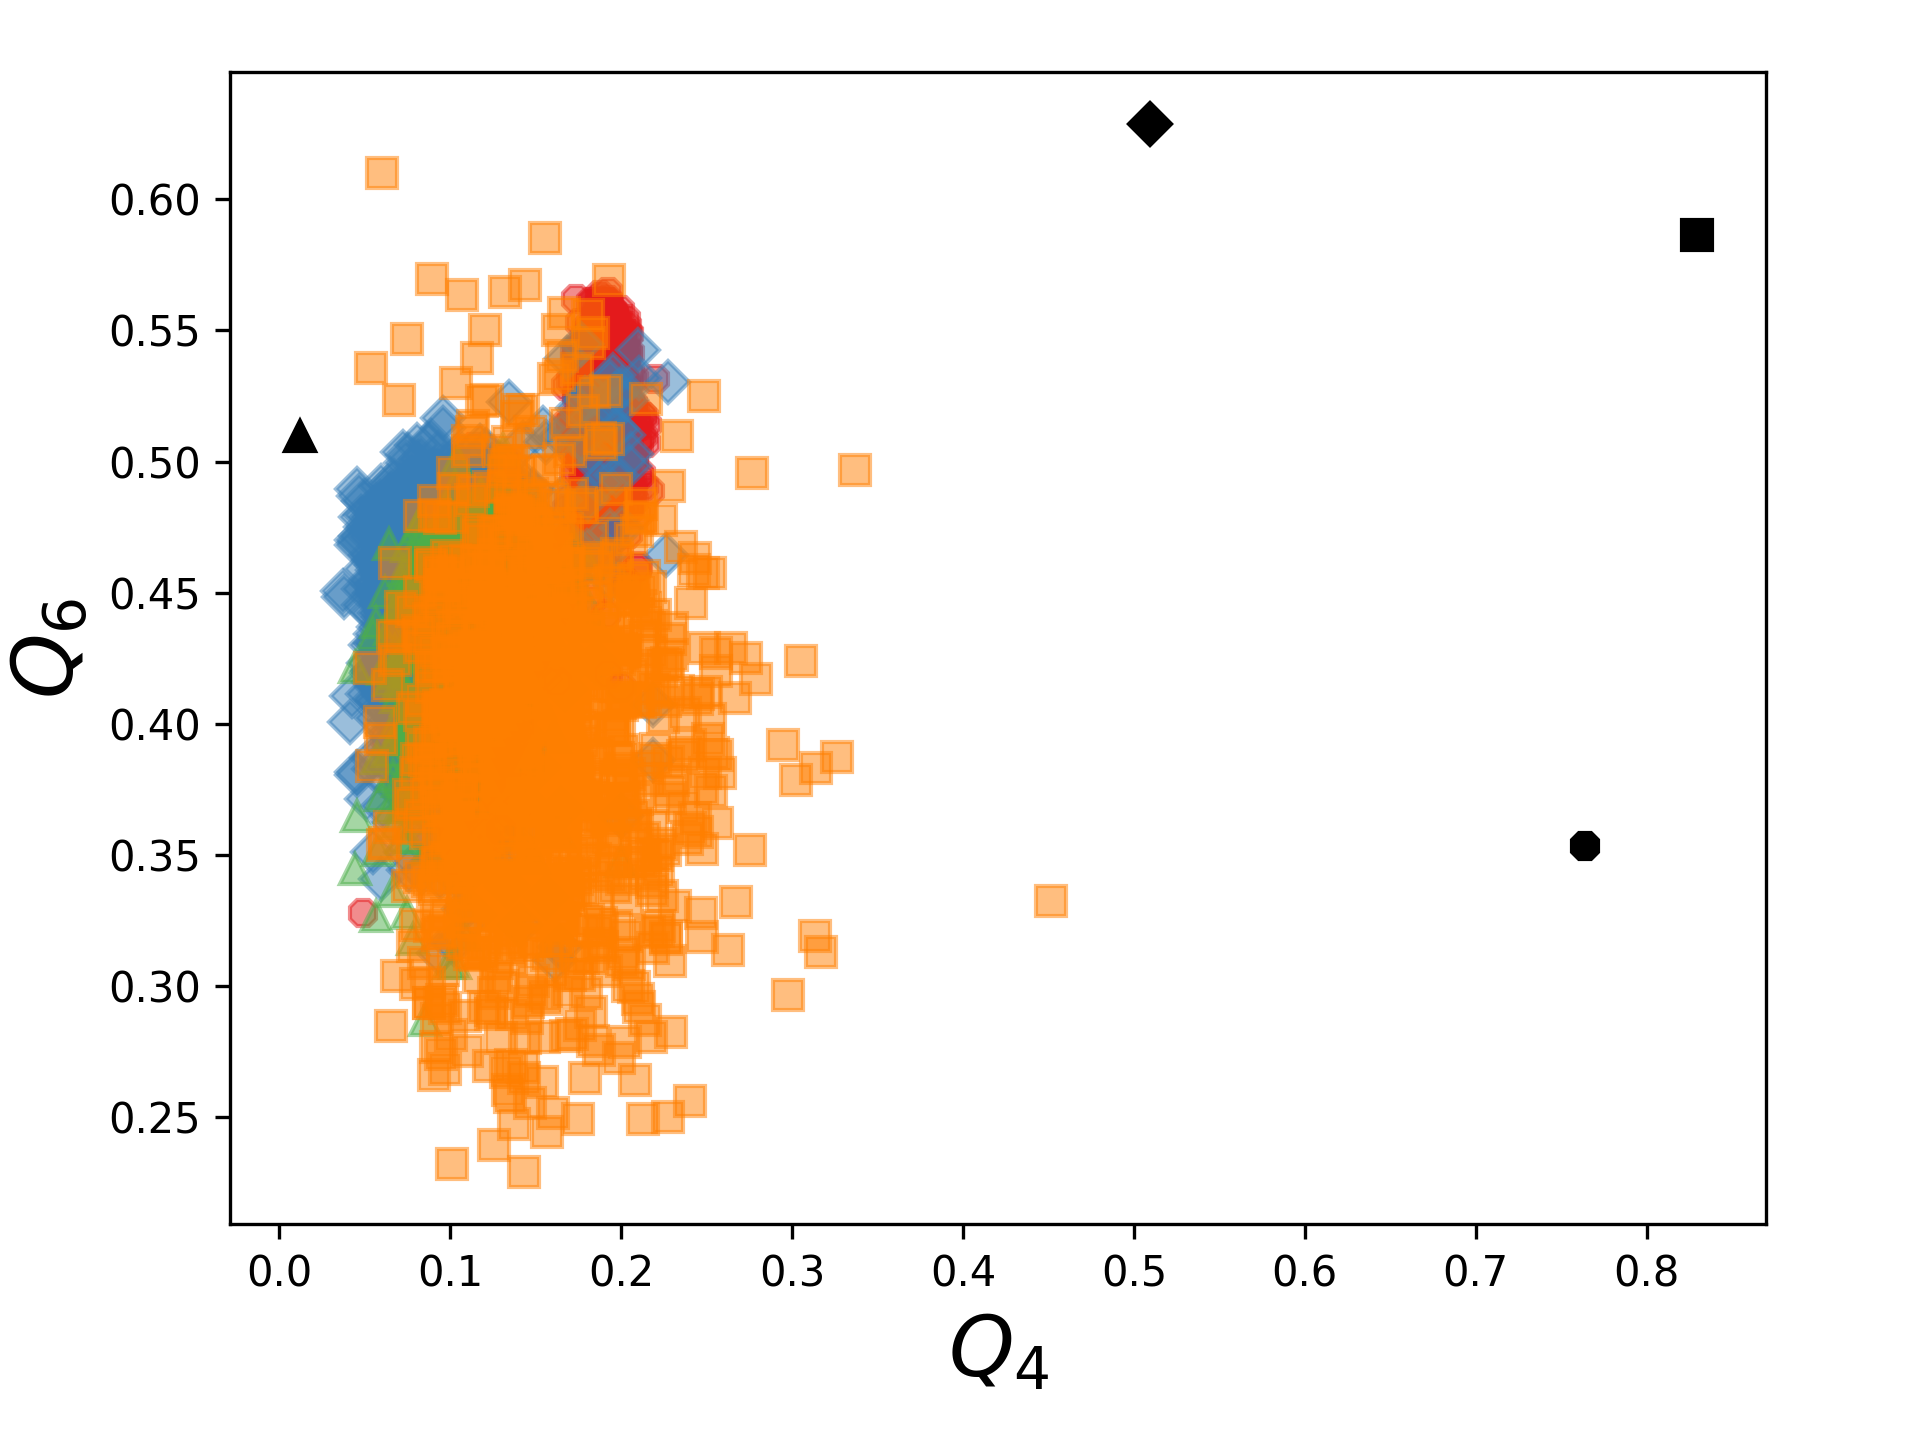
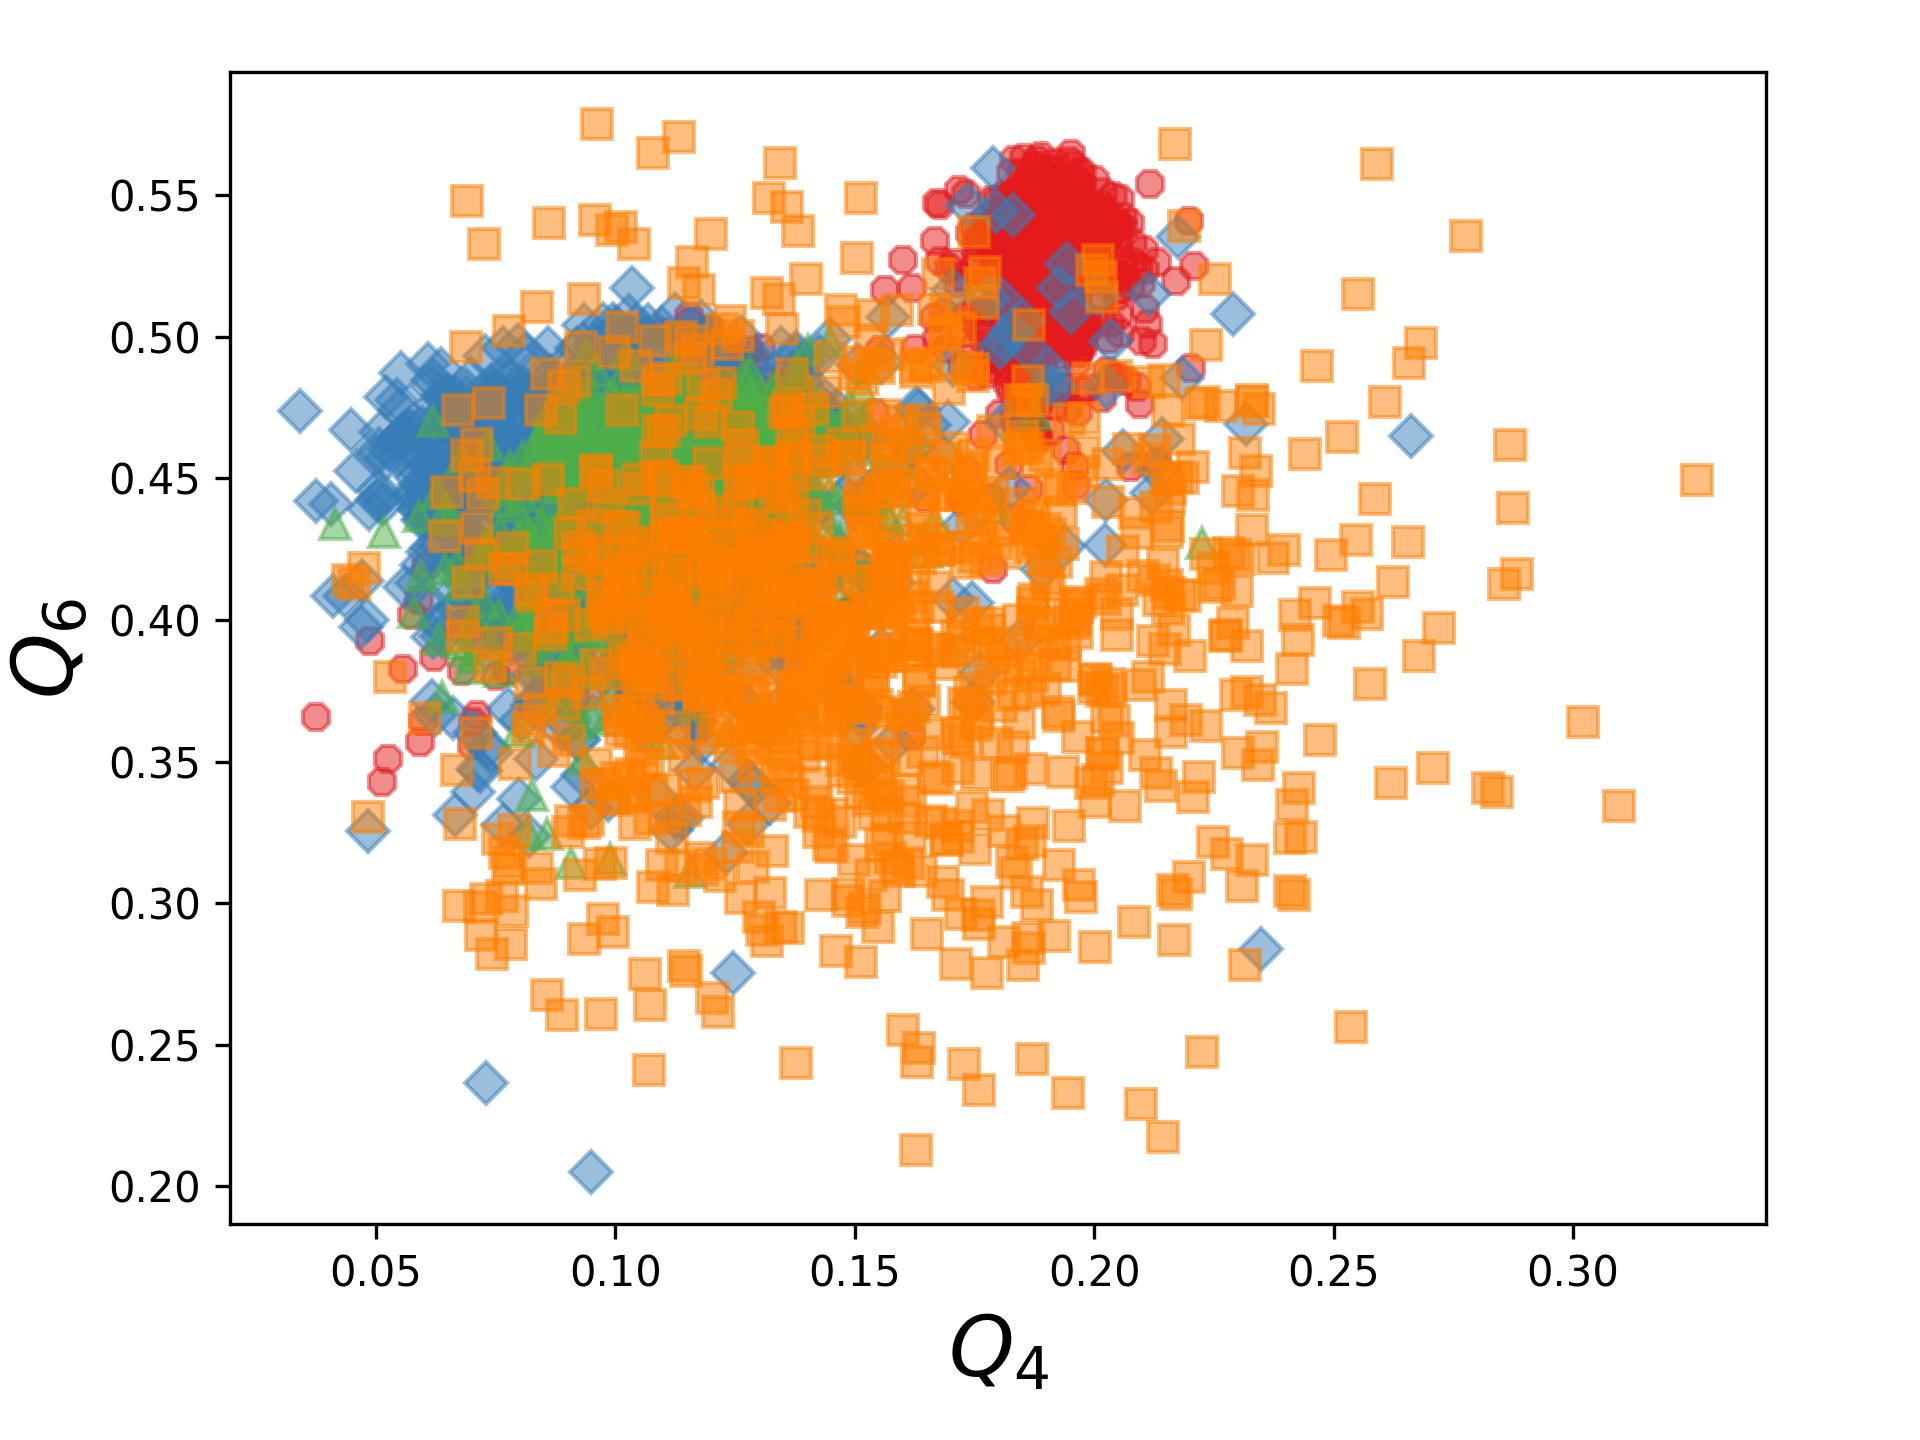
no perfect crystal Q points in figures and computed steinhardts for last timestamp instead of first

diff --git a/post_processing/01_plot_Q_vs_Q.py b/post_processing/01_plot_Q_vs_Q.py
@@ -40,7 +40,7 @@ for l in range(N):
   for y, Q_name in enumerate(Q_names):
     Q = loadtxt(Q_path.format(Q_name))
     ax.plot(Q[:,l], (l+1)*ones(Q.shape[0]), marker[y], c=c[y], ms=6, alpha=0.5)
-    ax.plot(Q0[y,l], (l+1), marker[y], c='k', ms=6)
+#    ax.plot(Q0[y,l], (l+1), marker[y], c='k', ms=6)
 
 # Add details.
 ax.set_xlabel(r'$Q_\ell$', fontsize=20)
@@ -63,7 +63,7 @@ ax  = fig.add_axes([0.12,0.15,0.8,0.8])
 for y, Q_name in enumerate(Q_names):
   Q = loadtxt(Q_path.format(Q_name))
   ax.plot(Q[:,3], Q[:,5], marker[y], c=c[y], ms=7, alpha=0.5)
-  ax.plot(Q0[y,3], Q0[y,5], marker[y], c='k', ms=7)
+#  ax.plot(Q0[y,3], Q0[y,5], marker[y], c='k', ms=7)
 
 # Add details.
 ax.set_xlabel(r'$Q_4$', fontsize=20)
@@ -84,7 +84,7 @@ for li in range(N):
     for y, Q_name in enumerate(Q_names):
       Q = loadtxt(Q_path.format(Q_name))
       ax.plot(Q[:,li], Q[:,lj], marker[y], c=c[y], ms=6)
-      ax.plot(Q0[y,li], Q0[y,lj], marker[y], c='k', ms=6)
+#      ax.plot(Q0[y,li], Q0[y,lj], marker[y], c='k', ms=6)
     ax.set_xticklabels([])
     ax.set_yticklabels([])
     ax.tick_params(axis='x', which='both', bottom=False, top=False)

diff --git a/compute_steinhardt.py b/compute_steinhardt.py
@@ -45,10 +45,10 @@ l = arange(1,10+1)
 ################################################################################
 
 structures = [
-  ('bcc','lammps_scripts/02_crystals/data/dump_bcc_10000.dat'),
-  ('fcc','lammps_scripts/02_crystals/data/dump_fcc_10000.dat'),
-  ('hcp','lammps_scripts/02_crystals/data/dump_hcp_10000.dat'),
-  ('liq','lammps_scripts/03_liquid/data/dump_liquid_10000.dat')
+  ('bcc','lammps_scripts/02_crystals/data/dump_bcc_20000.dat'),
+  ('fcc','lammps_scripts/02_crystals/data/dump_fcc_20000.dat'),
+  ('hcp','lammps_scripts/02_crystals/data/dump_hcp_20000.dat'),
+  ('liq','lammps_scripts/03_liquid/data/dump_liquid_20000.dat')
 ]
 
 output_dir = 'data/from_sim'

diff --git a/post_processing/02_plot_tsne_and_pca.py b/post_processing/02_plot_tsne_and_pca.py
@@ -8,7 +8,7 @@ c = ['#E41A1C', '#377EB8', '#4DAF4A', '#FF7F00', '#FFFF33', '#A65628', '#F781BF'
 
 y = loadtxt('../data/classifiers/y.dat')
 X_pca = loadtxt('../data/tsne_pca/pca.dat')
-X0_pca = loadtxt('../data/tsne_pca/pca0.dat')
+#X0_pca = loadtxt('../data/tsne_pca/pca0.dat')
 
 marker = ['8','D', '^', 's']
 
@@ -25,7 +25,7 @@ plt.axvline(ls='--', c='k', lw=0.5)
 # Plot.
 for i in range(4):
   ax.plot(X_pca[y==i,0], X_pca[y==i,1], marker[i], c=c[i], ms=6, alpha=0.5)
-  ax.plot(X0_pca[i,0], X0_pca[i,1], marker[i], c='k', ms=6)
+  #ax.plot(X0_pca[i,0], X0_pca[i,1], marker[i], c='k', ms=6)
  
 # Add details and save figure.
 ax.set_xlabel(r'PCA 1')
